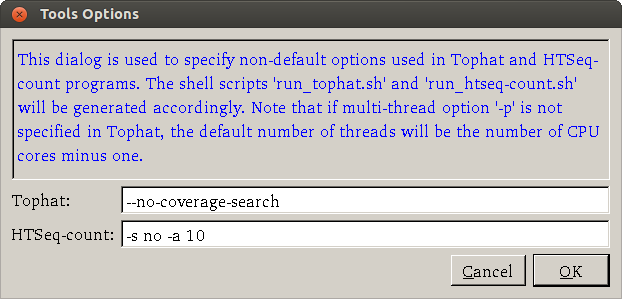
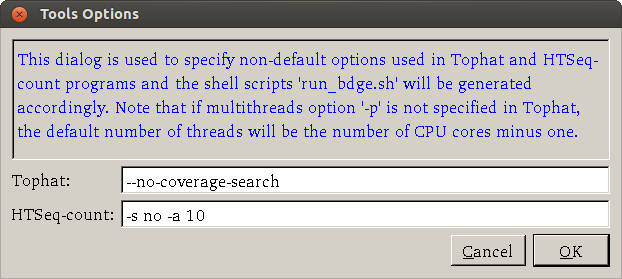
update screenshot ToolsOption.png

Changed region(s): [[0.0, 0.0287, 1.0, 0.8602], [0.7331, 0.8889, 0.9775, 0.9749], [0.0305, 0.6308, 0.1222, 0.6882]]

diff --git a/index.html b/index.html
@@ -440,7 +440,7 @@
 		               with Unix/Linux can start to analyze RNA-sequence data without the need of a 'system administrator'.</li>
 		               <li><strong>Is the program running in parallel? </strong> The sequence alignment part in Tophat is most time consuming. 
 		               So we designed <strong>BRB-BDGE</strong> to run Tophat program in parallel to reduce the run time. By default the number of threads is the total number of CPU cores 
-		               on the system minus one. Since running Tophat with multi-threads requires a significant increase of memory, sometimes
+		               on the system minus one. Since running Tophat with multithreads requires a significant increase of memory, sometimes
 		               the execution may be very slow because lack of memory. In such a case, users can specify '-p' 
 		               parameter in Tophat program to decrease the number of threads.</li>
 							<li><strong>Can the program run on amazon cloud? </strong> You bet. Make sure the amazon machine image (AMI) used to 
